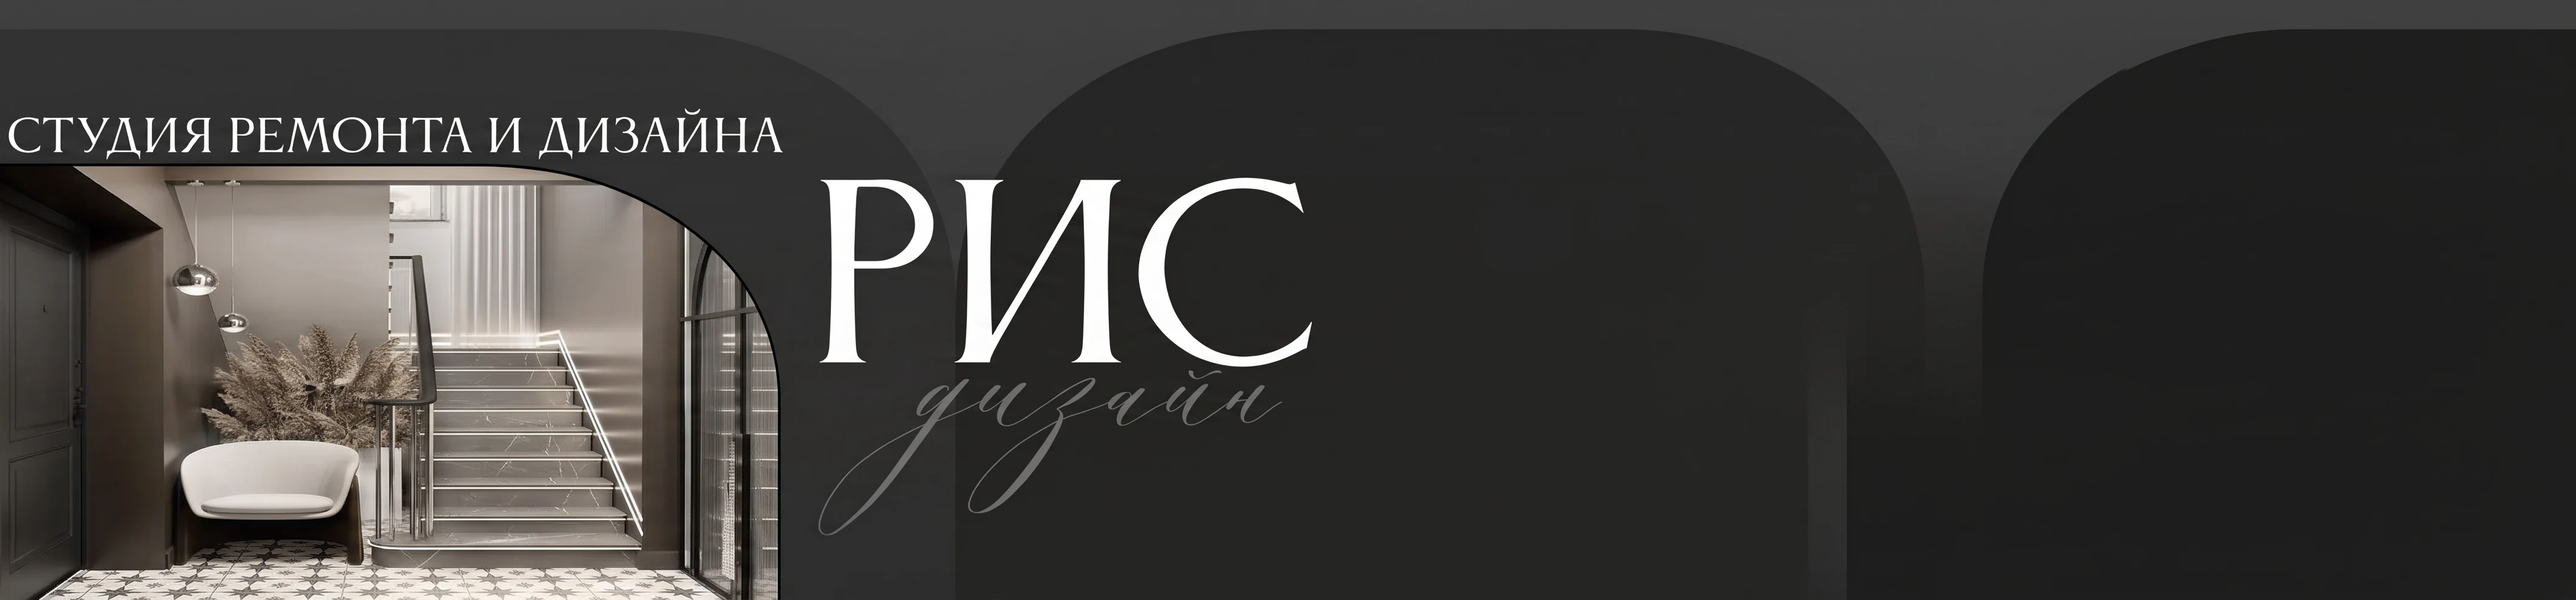
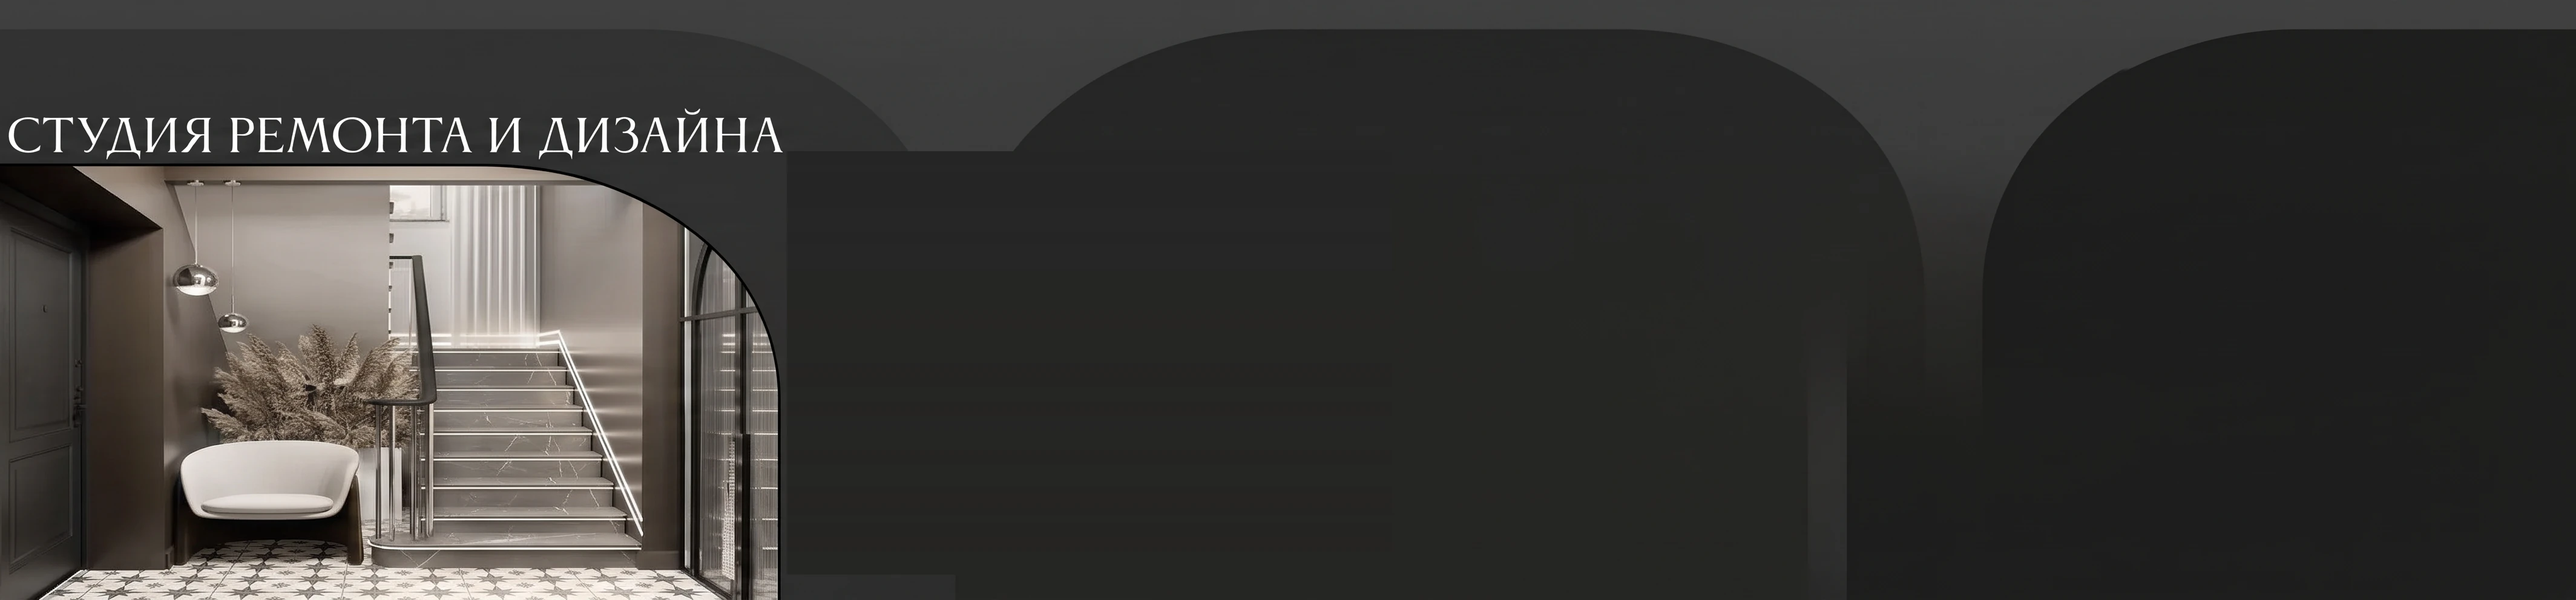
Футер: убрать обрезанный логотип из фона для всех разрешений

Changed region(s): [[0.3125, 0.2812, 0.5312, 0.8438], [0.3125, 0.8125, 0.3438, 0.875]]

diff --git a/index.html b/index.html
@@ -388,7 +388,7 @@
       background-color:#1a1a1a;
       background-image:
         linear-gradient(180deg, rgba(17,17,17,0.45), rgba(17,17,17,0.72)),
-        url('media/futter.webp?v=2');
+        url('media/futter.webp?v=3');
       background-size:cover;
       background-position:left top;
       background-repeat:no-repeat;

diff --git a/portfolio.html b/portfolio.html
@@ -434,7 +434,7 @@
       background-color:#1a1a1a;
       background-image:
         linear-gradient(180deg, rgba(17,17,17,0.45), rgba(17,17,17,0.72)),
-        url('media/futter.webp?v=2');
+        url('media/futter.webp?v=3');
       background-size:cover;
       background-position:left top;
       background-repeat:no-repeat;
